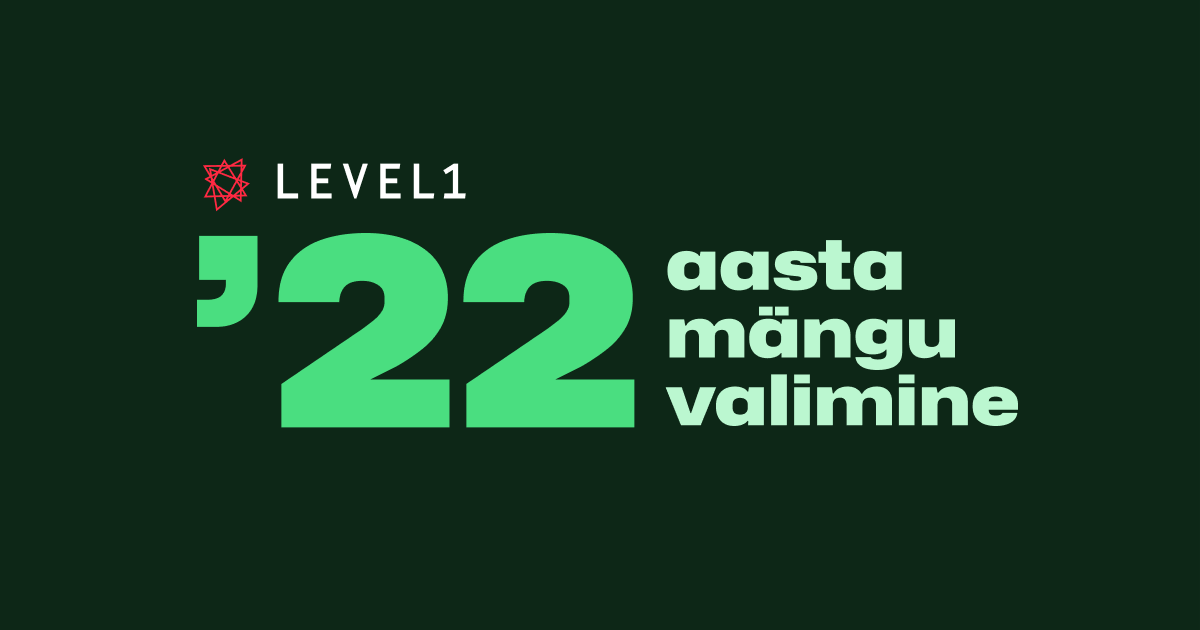
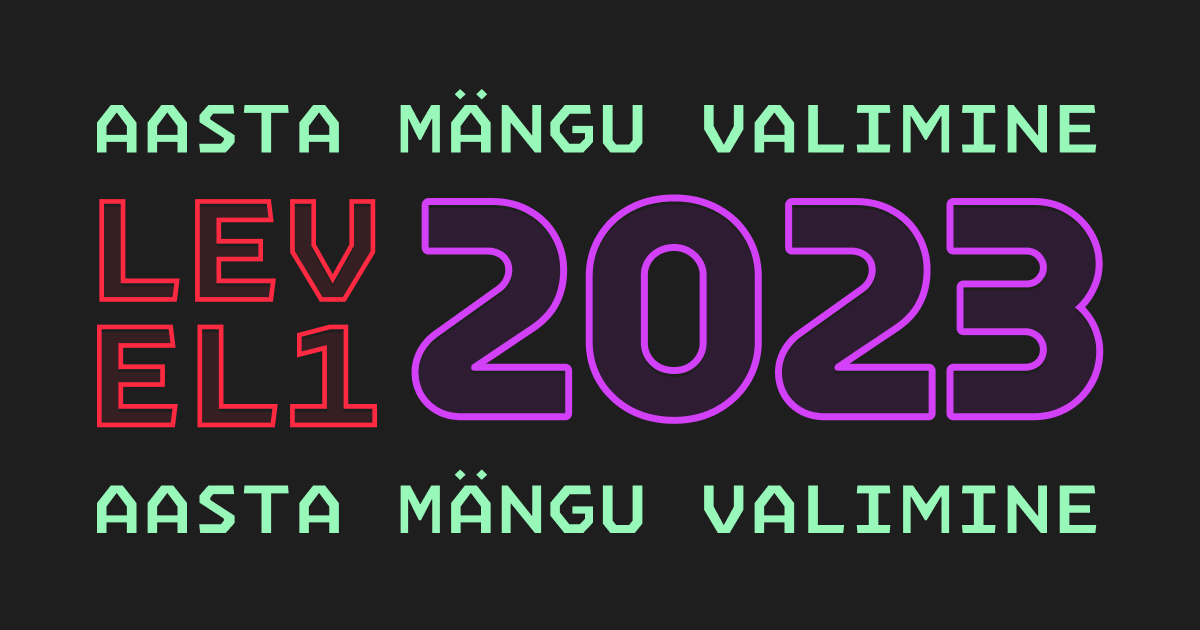
Update to 2023

diff --git a/pages/index.js b/pages/index.js
@@ -7,7 +7,7 @@ import logo from "../public/level1-logo.svg";
 import gotyLogo from "../public/goty-logo.svg";
 import { NextSeo } from "next-seo";
 
-const FORMSPARK_FORM_ID = "9kXZImww";
+const FORMSPARK_FORM_ID = "K8SA04vLp";
 
 export default function Home() {
   const {
@@ -17,8 +17,8 @@ export default function Home() {
     formState: { errors },
   } = useForm();
 
-  const [message, setMessage] = useState("Hääletus on lõppenud.");
-  const [formIsVisible, setFormIsVisible] = useState(false);
+  const [message, setMessage] = useState("");
+  const [formIsVisible, setFormIsVisible] = useState(true);
 
   const watchGotyList = watch("goty", false); // you can supply default value as second argument
 
@@ -45,8 +45,8 @@ export default function Home() {
   return (
     <div className="max-w-3xl mx-auto pt-9 px-8">
       <NextSeo
-        title="2022 aasta mängu valimine - Level1.ee"
-        description="Milline oli sinu arvates 2022. aasta parim videomäng? Ära hoia seda enda teada, vaid jaga oma arvamust ka meiega ning võid võita ägedaid auhindu."
+        title="2023 aasta mängu valimine - Level1.ee"
+        description="Aastal 2023 ilmus meeletus koguses väga häid videomänge. Ent milline neist oli kõige parem? Jaga meiega oma tänavust lemmikmängu ning osale suures auhinnaloosis."
         canonical="https://goty.level1.ee/"
         openGraph={{
           images: [
@@ -54,7 +54,7 @@ export default function Home() {
               url: "https://goty.level1.ee/og.png",
               width: 1200,
               height: 630,
-              alt: "Level1.ee - 2022 aasta mängu valimine",
+              alt: "Level1.ee - 2023 aasta mängu valimine",
               type: "image/png",
             },
           ],
@@ -117,30 +117,22 @@ export default function Home() {
                   <option value="" disabled>
                     Vali...
                   </option>
-                  <option value="Horizon Forbidden West">
-                    Horizon Forbidden West
-                  </option>
-                  <option value="Elden Ring">Elden Ring</option>
-                  <option value="Gran Turismo 7">Gran Turismo 7</option>
-                  <option value="Kirby and the Forgotten Land">
-                    Kirby and the Forgotten Land
-                  </option>
-                  <option value="Tiny Tina's Wonderlands">
-                    Tiny Tina's Wonderlands
-                  </option>
-                  <option value="Teenage Mutant Ninja Turtles: Shredder's Revenge">
-                    Teenage Mutant Ninja Turtles: Shredder's Revenge
-                  </option>
-                  <option value="Stray">Stray</option>
-                  <option value="The Last of Us Part I">
-                    The Last of Us Part I
-                  </option>
-                  <option value="God of War Ragnarök">
-                    God of War Ragnarök
-                  </option>
-                  <option value="Call of Duty Warzone 2.0">
-                    Call of Duty Warzone 2.0
-                  </option>
+                  {[
+                    "Final Fantasy 16",
+                    "Marvel's Spider-Man 2",
+                    "Baldur's Gate 3",
+                    "Resident Evil 4",
+                    "Alan Wake II",
+                    "Diablo IV",
+                    "The Legend of Zelda: Tears of the Kingdom",
+                    "Hogwarts Legacy",
+                    "Starfield",
+                    "Super Mario Bros. Wonder",
+                  ].map((game) => (
+                    <option key={game} value={game}>
+                      {game}
+                    </option>
+                  ))}
                   <option value="other">Muu (soovita oma valikut)</option>
                 </select>
                 {errors.goty && (
@@ -200,32 +192,21 @@ export default function Home() {
             </div>
           </form>
           <div className="flex-1">
-            <a
-              href="https://level1.ee"
-              title="Mine Level1.ee"
-              target={"_blank"}
-              className=""
-            >
-              <Image
-                className=" max-w-[100px]"
-                src={logo}
-                alt="Level1.ee"
-                priority
-              />
-            </a>
             <Image
               className="mb-9"
               src={gotyLogo}
-              alt="2022 aasta mängu valimine"
+              alt="2023 aasta mängu valimine"
               priority
             />
-            <p className="text-green-200  leading-7 pl-[32px]">
-              Milline oli sinu arvates 2022. aasta parim videomäng? Ära hoia
-              seda enda teada, vaid jaga oma arvamust ka meiega ning võid võita
-              ägedaid auhindu:{" "}
+            <p className="text-green-100 leading-7">
+              Aastal 2023 ilmus meeletus koguses väga häid videomänge. Ent
+              milline neist oli kõige parem? Jaga meiega oma tänavust
+              lemmikmängu ning osale suures auhinnaloosis, mille raames jagame
+              ära sellised auhinnad:{" "}
               <strong className="font-bold">
-                God of War Ragnarök Collector's Edition, Steelseries Arctics
-                Nova 1 kõrvaklapid ja Steelseries Apex 9 Mini klaviatuur.
+                Razer Cobra Pro mäguri hiir, Logitech PRO X 2 juhtmevaba mänguri
+                peakomplekt, SteelSeries Arena 3 kõlarid, Horizon Forbidden West
+                Collector's Edition, God of War Ragnarök Collector's Edition,
               </strong>
             </p>
           </div>

diff --git a/pages/embed.js b/pages/embed.js
@@ -7,7 +7,7 @@ import logo from "../public/level1-logo.svg";
 import gotyLogo from "../public/goty-logo.svg";
 import { NextSeo } from "next-seo";
 
-const FORMSPARK_FORM_ID = "9kXZImww";
+const FORMSPARK_FORM_ID = "K8SA04vLp";
 
 export default function Home() {
   const {
@@ -17,8 +17,8 @@ export default function Home() {
     formState: { errors },
   } = useForm();
 
-  const [message, setMessage] = useState("Hääletus on lõppenud.");
-  const [formIsVisible, setFormIsVisible] = useState(false);
+  const [message, setMessage] = useState("");
+  const [formIsVisible, setFormIsVisible] = useState(true);
 
   const watchGotyList = watch("goty", false); // you can supply default value as second argument
 
@@ -45,8 +45,8 @@ export default function Home() {
   return (
     <div className="max-w-3xl mx-auto pt-9 px-8">
       <NextSeo
-        title="2022 aasta mängu valimine - Level1.ee"
-        description="Milline oli sinu arvates 2022. aasta parim videomäng? Ära hoia seda enda teada, vaid jaga oma arvamust ka meiega ning võid võita ägedaid auhindu."
+        title="2023 aasta mängu valimine - Level1.ee"
+        description="Aastal 2023 ilmus meeletus koguses väga häid videomänge. Ent milline neist oli kõige parem? Jaga meiega oma tänavust lemmikmängu ning osale suures auhinnaloosis."
         canonical="https://goty.level1.ee/"
         openGraph={{
           images: [
@@ -54,7 +54,7 @@ export default function Home() {
               url: "https://goty.level1.ee/og.png",
               width: 1200,
               height: 630,
-              alt: "Level1.ee - 2022 aasta mängu valimine",
+              alt: "Level1.ee - 2023 aasta mängu valimine",
               type: "image/png",
             },
           ],
@@ -139,30 +139,22 @@ export default function Home() {
                   <option value="" disabled>
                     Vali...
                   </option>
-                  <option value="Horizon Forbidden West">
-                    Horizon Forbidden West
-                  </option>
-                  <option value="Elden Ring">Elden Ring</option>
-                  <option value="Gran Turismo 7">Gran Turismo 7</option>
-                  <option value="Kirby and the Forgotten Land">
-                    Kirby and the Forgotten Land
-                  </option>
-                  <option value="Tiny Tina's Wonderlands">
-                    Tiny Tina's Wonderlands
-                  </option>
-                  <option value="Teenage Mutant Ninja Turtles: Shredder's Revenge">
-                    Teenage Mutant Ninja Turtles: Shredder's Revenge
-                  </option>
-                  <option value="Stray">Stray</option>
-                  <option value="The Last of Us Part I">
-                    The Last of Us Part I
-                  </option>
-                  <option value="God of War Ragnarök">
-                    God of War Ragnarök
-                  </option>
-                  <option value="Call of Duty Warzone 2.0">
-                    Call of Duty Warzone 2.0
-                  </option>
+                  {[
+                    "Final Fantasy 16",
+                    "Marvel's Spider-Man 2",
+                    "Baldur's Gate 3",
+                    "Resident Evil 4",
+                    "Alan Wake II",
+                    "Diablo IV",
+                    "The Legend of Zelda: Tears of the Kingdom",
+                    "Hogwarts Legacy",
+                    "Starfield",
+                    "Super Mario Bros. Wonder",
+                  ].map((game) => (
+                    <option key={game} value={game}>
+                      {game}
+                    </option>
+                  ))}
                   <option value="other">Muu (soovita oma valikut)</option>
                 </select>
                 {errors.goty && (

diff --git a/tailwind.config.js b/tailwind.config.js
@@ -1,17 +1,8 @@
-const { fontFamily } = require("tailwindcss/defaultTheme");
-
 /** @type {import('tailwindcss').Config} */
 module.exports = {
   content: [
     "./pages/**/*.{js,ts,jsx,tsx}",
     "./components/**/*.{js,ts,jsx,tsx}",
   ],
-  theme: {
-    extend: {
-      fontFamily: {
-        sans: ["var(--font-inter)", ...fontFamily.sans],
-      },
-    },
-  },
   plugins: [require("@tailwindcss/forms")],
 };

diff --git a/pages/_app.js b/pages/_app.js
@@ -1,14 +1,8 @@
 import "../styles/globals.css";
-import { Inter } from "@next/font/google";
-
-const inter = Inter({
-  subsets: ["latin-ext"],
-  variable: "--font-inter",
-});
 
 export default function MyApp({ Component, pageProps }) {
   return (
-    <main className={`${inter.variable} font-sans`}>
+    <main>
       <Component {...pageProps} />
     </main>
   );

diff --git a/styles/globals.css b/styles/globals.css
@@ -16,7 +16,7 @@
         w-full
         rounded-md
         border
-        border-green-500
+        border-green-400
         shadow-sm
         focus:border-green-500 focus:ring focus:ring-green-500 focus:ring-opacity-50;
   }
@@ -67,6 +67,6 @@
 
 @layer base {
   body {
-    @apply bg-black text-white;
+    @apply bg-[#1E1E1E] text-white font-mono;
   }
 }
